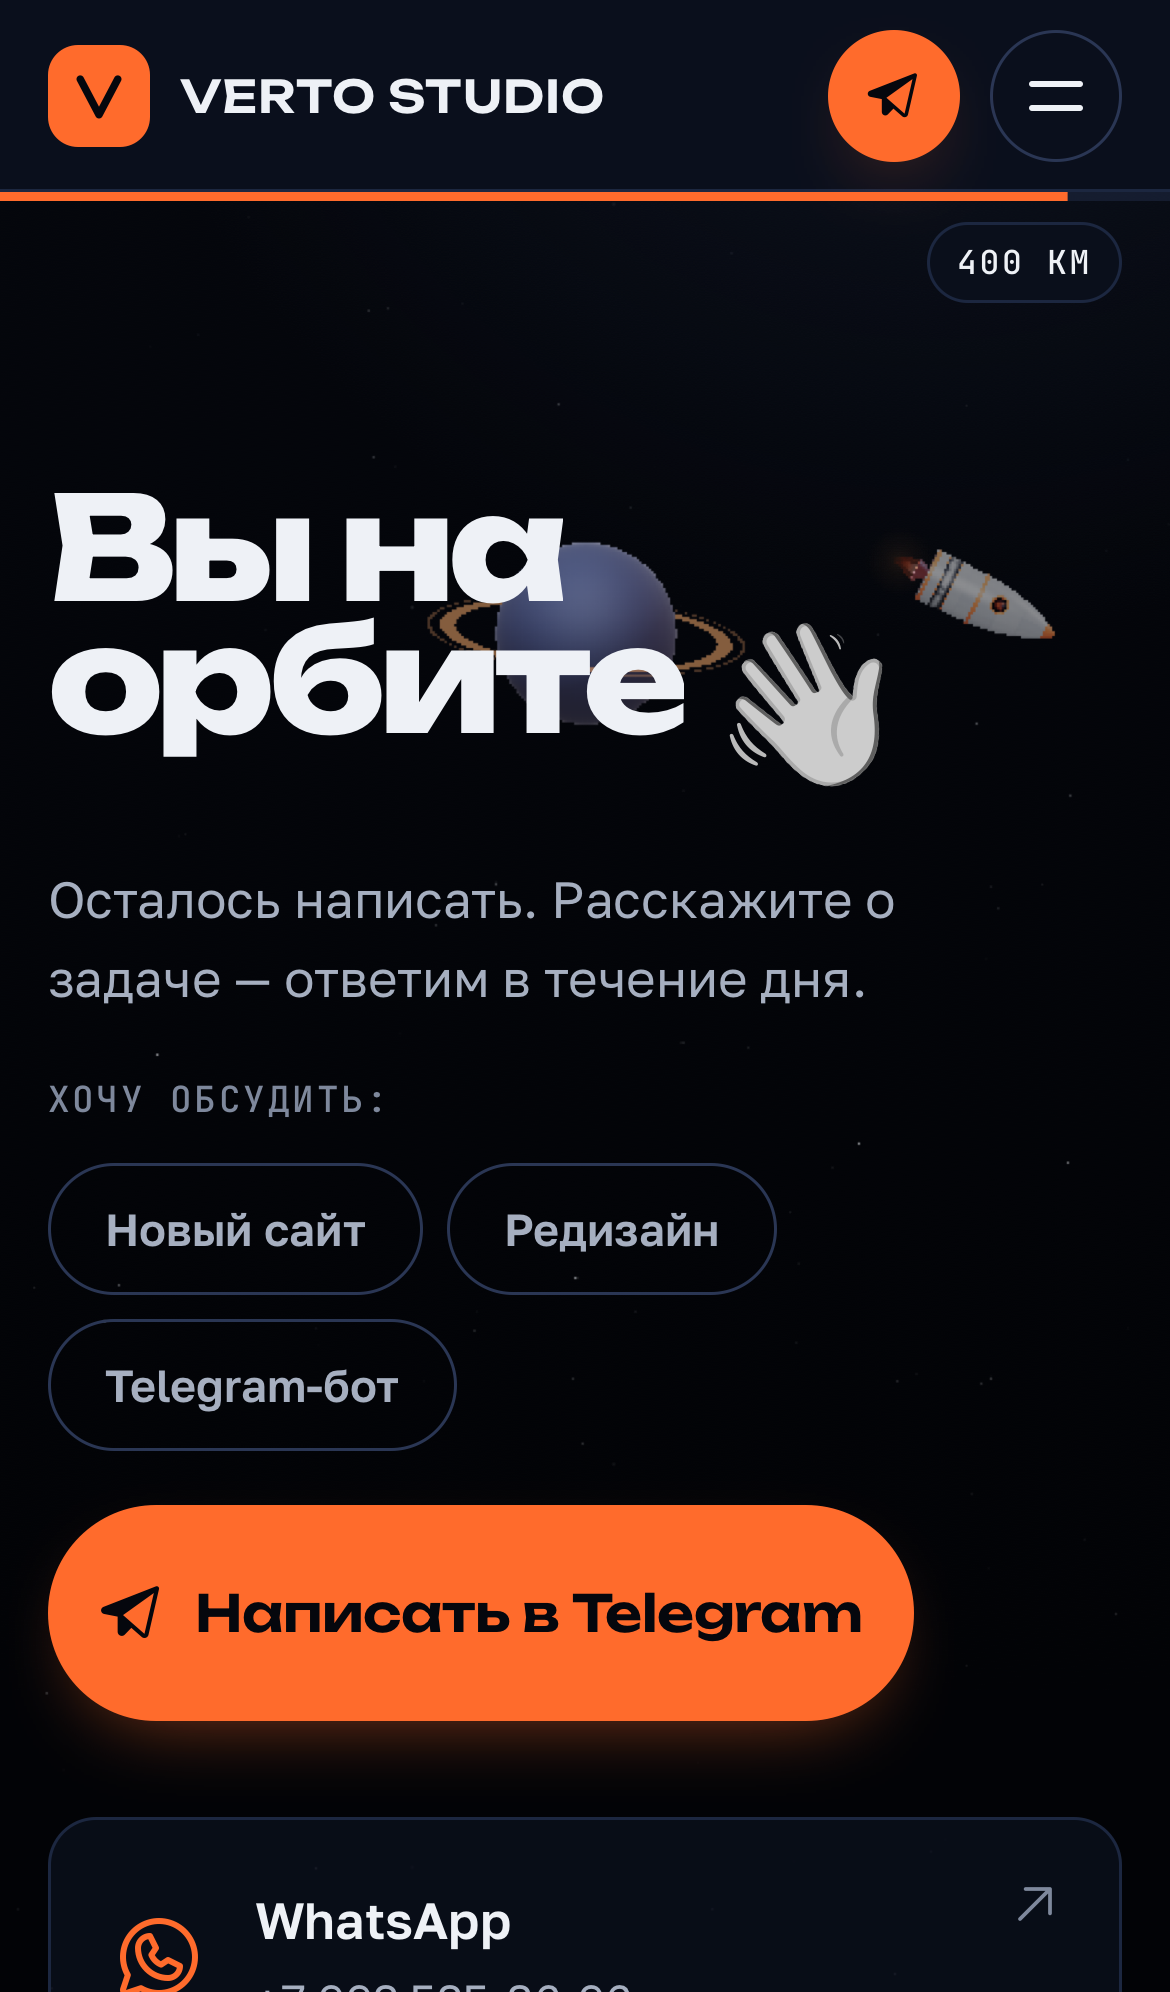
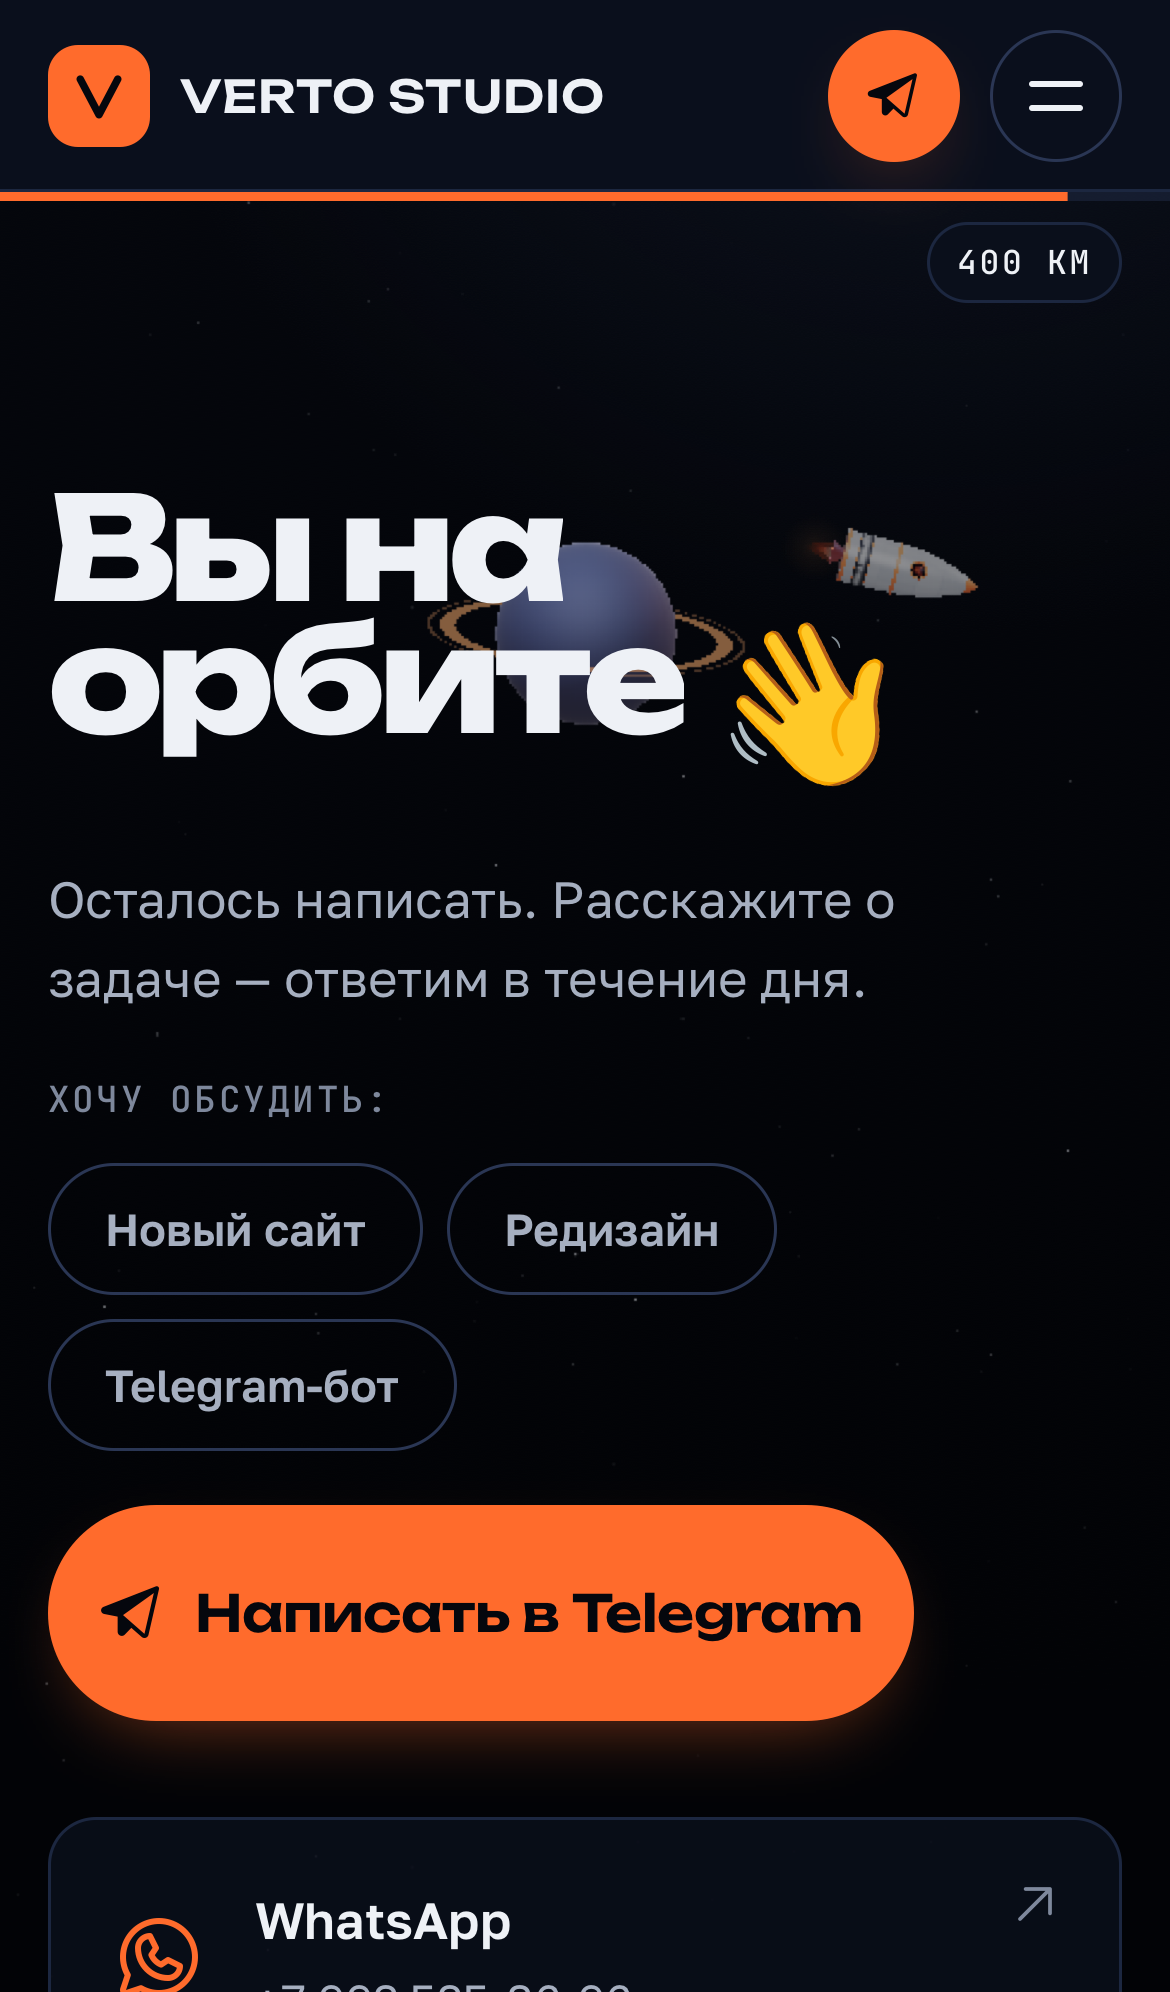
Colorful animated stickers again, bigger fire sticker, collection track fades before altimeter, text audit script

Changed region(s): [[0.6154, 0.249, 0.8923, 0.4046]]

diff --git a/src/styles/sections.css b/src/styles/sections.css
@@ -795,7 +795,13 @@
   .works[data-horizontal] { padding-top: calc(var(--header-h) + 16px); padding-bottom: 24px; min-height: 100svh; }
   .works[data-horizontal] .works-head { margin-bottom: 18px; }
   .works[data-horizontal] .section-title { font-size: clamp(2.25rem, 4.6vw, 4rem); }
-  .works[data-horizontal] .works-viewport { overflow-x: clip; overflow-y: visible; }
+  .works[data-horizontal] .works-viewport {
+    overflow-x: clip;
+    overflow-y: visible;
+    /* лента растворяется перед шкалой высоты, чтобы цифры шкалы не наезжали на карточки */
+    -webkit-mask-image: linear-gradient(to right, #000 calc(100% - 150px), transparent calc(100% - 70px));
+    mask-image: linear-gradient(to right, #000 calc(100% - 150px), transparent calc(100% - 70px));
+  }
   .works[data-horizontal] .works-track {
     display: flex;
     width: max-content;
@@ -1153,13 +1159,11 @@
   .sticker-slot > .lottie { opacity: 0; }
   .sticker-slot[data-live] > .lottie { opacity: 1; }
   .sticker-slot[data-live] > img { opacity: 0; }
-  /* Монохромные «премиальные» стикеры (как во втором референсе): без цвета, с контрастом
-     и тёмным контуром по силуэту; на карточках — на чёрной плашке. */
+  /* Цветные анимированные стикеры: родные цвета Noto, чуть насыщеннее, с мягкой тенью;
+     на карточках — на тёмной плашке, на которой цвет читается ярче. */
   .sticker-slot > img,
   .sticker-slot > .lottie {
-    filter:
-      grayscale(1) contrast(1.25) brightness(0.94)
-      drop-shadow(0 0 1px rgb(5 7 13 / 0.95)) drop-shadow(0 2px 4px rgb(2 4 10 / 0.7));
+    filter: saturate(1.12) drop-shadow(0 4px 8px rgb(2 4 10 / 0.55));
   }
   .card-sticker {
     padding: 12px;
@@ -1263,9 +1267,9 @@
 }
 
 @layer components {
-  /* Телефон: тот же монохром, но без теней-контуров — они перерисовываются каждый кадр анимации */
+  /* Телефон: без фильтров — тень перерисовывалась бы каждый кадр анимации */
   @media (max-width: 1023.98px) {
     .sticker-slot > img,
-    .sticker-slot > .lottie { filter: grayscale(1) contrast(1.25) brightness(0.94); }
+    .sticker-slot > .lottie { filter: none; }
   }
 }

diff --git a/public/terms.html b/public/terms.html
@@ -120,7 +120,7 @@
             target="_blank"
             rel="noopener noreferrer license"
             >CC BY 4.0</a
-          >. Эмодзи показаны в монохромной обработке.
+          >.
         </p>
       </article>
     </main>

diff --git a/docs/DECISIONS.md b/docs/DECISIONS.md
@@ -59,3 +59,5 @@
 | 53 | 2026-10-10 | Цепочка «выключить → включить анимацию»: при пересборке таймлайна стартовое состояние ракеты ставится явно. | Новый таймлайн стоит в 0; при прокрутке 0 GSAP не рисовал стартовый кадр, и ракета оставалась огромной поверх текста hero. |
 | 54 | 2026-10-10 | Нагрузка на видеочип телефона: DPR холста 1.25 (было 1.5), размытие под шапкой только на десктопе, градиент фона на фиксированном слое вместо `background-attachment: fixed`, стикеры — максимум 2 одновременно и без теней-контуров, пламя и свечение гаснут вместе с ракетой. | Эмуляция с CPU ×4 показывала 58–60 FPS, значит узкое место на реальных телефонах — видеочип и перерисовка; убраны самые дорогие для него вещи. |
 | 55 | 2026-10-10 | Ракета: «VERTO STUDIO» спереди на второй ступени (из `hero.title`), тёмный пояс на третьей ступени с бегущей по кругу строкой услуг (первые 9 пунктов `marquee` из i18n, RU/EN), стык текстуры спрятан под оранжевой «застёжкой» сзади, оранжевый наконечник и кромки стабилизаторов, сопло светится при работе двигателя. Постер и OG пересняты. | Владелец: «название на ракете и анимация с услугами, когда она крутится». Тексты — из i18n, новых строк нет. |
+| 56 | 2026-10-10 | Стикеры снова цветные (родные цвета Noto, `saturate(1.12)` и мягкая тень на десктопе; на телефоне без фильтров), тёмная плашка на карточках сохранена. Огонь у сноски паспорта крупнее (36 px). Отменяет монохром из #49. | Владелец: цветные эмодзи смотрятся лучше, огонь должен быть ярким. |
+| 57 | 2026-10-10 | Горизонтальная лента коллекции растворяется у правого края (`mask-image`), не доходя до шкалы высоты. На странице «Условия» убрана фраза о монохромной обработке эмодзи. Добавлена проверка `scripts/text_audit.cjs`: текст за краем блока или наезжающий на другой текст, 9 ширин, RU и EN. | Цифры шкалы высоты налезали на подписи карточек при прокрутке ленты; фраза в «Условиях» перестала быть правдой. |
